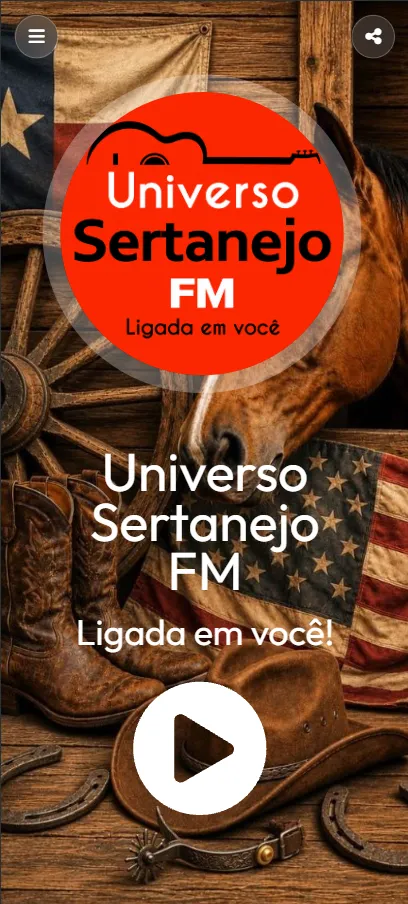
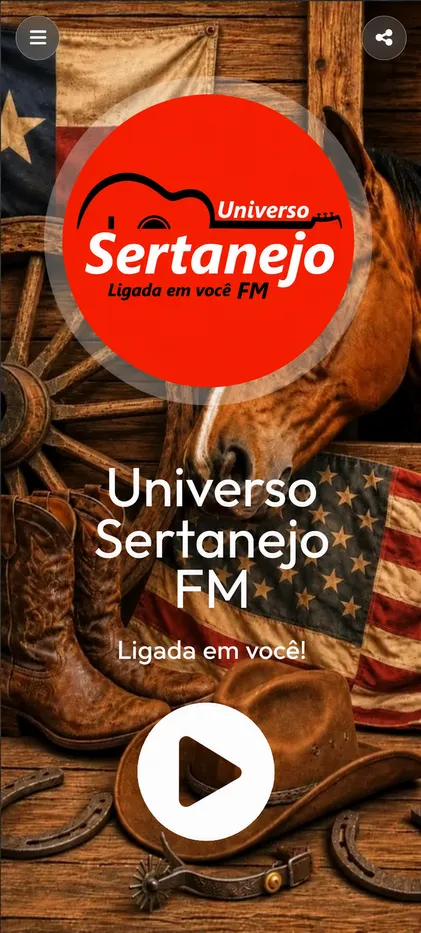
fix: ajustar identidade visual e recorte dos títulos

diff --git a/src/routes/index.tsx b/src/routes/index.tsx
@@ -14,7 +14,9 @@ import { SITE_DATA } from "@/config/siteData";
 
 const { brandName, slogan, description, url, logoPath } = SITE_DATA;
 const title = `${brandName} | ${slogan}`;
-const image = new URL(logoPath, url).href;
+const logo = new URL(logoPath, url).href;
+const socialImage = new URL("/og-image.webp", url).href;
+const socialImageAlt = `${brandName} · ${slogan}, em fundo laranja com ondas sonoras`;
 
 export const Route = createFileRoute("/")({
   component: Index,
@@ -25,12 +27,17 @@ export const Route = createFileRoute("/")({
       { property: "og:title", content: title },
       { property: "og:description", content: description },
       { property: "og:url", content: url },
-      { property: "og:image", content: image },
-      { property: "og:image:alt", content: `Logotipo ${brandName}` },
+      { property: "og:image", content: socialImage },
+      { property: "og:image:secure_url", content: socialImage },
+      { property: "og:image:type", content: "image/webp" },
+      { property: "og:image:width", content: "1733" },
+      { property: "og:image:height", content: "907" },
+      { property: "og:image:alt", content: socialImageAlt },
+      { name: "twitter:card", content: "summary_large_image" },
       { name: "twitter:title", content: title },
       { name: "twitter:description", content: description },
-      { name: "twitter:image", content: image },
-      { name: "twitter:image:alt", content: `Logotipo ${brandName}` },
+      { name: "twitter:image", content: socialImage },
+      { name: "twitter:image:alt", content: socialImageAlt },
     ],
     links: [{ rel: "canonical", href: url }],
     scripts: [
@@ -45,8 +52,8 @@ export const Route = createFileRoute("/")({
               name: brandName,
               slogan,
               url,
-              image,
-              logo: image,
+              image: logo,
+              logo,
               description,
               genre: ["Sertanejo", "Modão", "Sertanejo Universitário"],
             },

diff --git a/src/components/sections/FooterSection.tsx b/src/components/sections/FooterSection.tsx
@@ -14,7 +14,7 @@ export function FooterSection() {
               className="w-56 rounded-lg object-contain drop-shadow-[0_0_15px_rgba(254,51,0,0.3)] transition-transform duration-300 hover:scale-105"
             />
           </div>
-          <p className="mt-3 text-xs uppercase tracking-[0.3em] text-brand">{SITE_DATA.slogan}</p>
+          {/* <p className="mt-3 text-xs uppercase tracking-[0.3em] text-brand">{SITE_DATA.slogan}</p> */}
           <p className="mt-4 text-sm text-taupe max-w-sm leading-relaxed">
             A rádio sertaneja que traz a combinação perfeita entre os grandes clássicos da roça e os
             maiores lançamentos da atualidade.
@@ -22,7 +22,9 @@ export function FooterSection() {
         </div>
 
         <div className="flex flex-col items-center md:items-start text-center md:text-left">
-          <h4 className="font-display text-lg tracking-widest text-cream mb-4">NAVEGAÇÃO</h4>
+          <h4 className="font-display mb-4 text-base font-bold leading-snug tracking-[0.09em] text-cream">
+            NAVEGAÇÃO
+          </h4>
           <ul className="space-y-3 text-sm text-taupe">
             <li>
               <a href="#top" className="hover:text-brand-bright transition-colors">
@@ -49,9 +51,9 @@ export function FooterSection() {
       </div>
       <div
         className="w-full my-8 pt-6 border-t border-current/10 text-center"
-        aria-label="Diretórios de rádio"
+        aria-label="Parceiros"
       >
-        <h3 className="mb-5 text-base font-semibold">Diretórios de rádio</h3>
+        <h3 className="mb-5 text-base font-bold leading-snug tracking-[-0.01em]">Parceiros</h3>
         <div className="flex flex-wrap justify-center items-center gap-4 sm:gap-6">
           <a
             key="myTuner Radio"

diff --git a/src/components/sections/LiveRadioSection.tsx b/src/components/sections/LiveRadioSection.tsx
@@ -40,7 +40,7 @@ export function LiveRadioSection() {
           <div className="relative aspect-4/5 rounded-3xl overflow-hidden border border-[rgba(181,43,8,0.3)] shadow-[0_20px_50px_rgba(26,19,12,0.12)]">
             <img
               src={studio}
-              alt="Microfone e mesa de som em estúdio de rádio ilustrativo"
+              alt="Vista ampla de um estúdio de rádio ilustrativo, com mesa de transmissão, microfones articulados e monitores"
               loading="lazy"
               className="w-full h-full object-cover brightness-105 contrast-105"
             />
@@ -60,7 +60,7 @@ export function LiveRadioSection() {
             Rádio online
           </p>
 
-          <h2 className="mt-3 font-display text-4xl md:text-5xl lg:text-6xl leading-tight">
+          <h2 className="mt-3 font-display text-[clamp(2.125rem,4.1vw,3.5rem)] font-extrabold leading-[1.1] tracking-[-0.04em]">
             <span className="text-brand-gradient-dark">Companhia de Verdade,</span>
             <br />
             <span className="text-graphite-medium">Ao Vivo</span>
@@ -89,7 +89,7 @@ export function LiveRadioSection() {
                   <Icon size={22} />
                 </div>
                 <div className="min-w-0">
-                  <h3 className="font-semibold text-graphite-medium text-base">{title}</h3>
+                  <h3 className="text-base font-semibold leading-snug tracking-[-0.01em] text-graphite-medium">{title}</h3>
                   <p className="text-sm text-[#5c4f40] mt-1 leading-snug">{body}</p>
                 </div>
               </motion.div>

diff --git a/src/routes/__root.tsx b/src/routes/__root.tsx
@@ -18,8 +18,8 @@ function NotFoundComponent() {
   return (
     <div className="flex min-h-screen items-center justify-center bg-background px-4">
       <div className="max-w-md text-center">
-        <h1 className="text-7xl font-bold text-foreground">404</h1>
-        <h2 className="mt-4 text-xl font-semibold text-foreground">Página não encontrada</h2>
+        <h1 className="text-6xl font-extrabold leading-none tracking-tight text-foreground sm:text-7xl">404</h1>
+        <h2 className="mt-4 text-xl font-bold leading-tight tracking-tight text-foreground">Página não encontrada</h2>
         <p className="mt-2 text-sm text-muted-foreground">
           O endereço pode ter mudado ou a página pode ter sido removida.
         </p>
@@ -88,9 +88,6 @@ export const Route = createRootRouteWithContext<{ queryClient: QueryClient }>()(
       { property: "og:site_name", content: SITE_DATA.brandName },
       { property: "og:type", content: "website" },
       { property: "og:locale", content: "pt_BR" },
-
-      /* Twitter Default */
-      { name: "twitter:card", content: "summary_large_image" },
     ],
     links: [
       { rel: "stylesheet", href: appCss },
@@ -103,7 +100,7 @@ export const Route = createRootRouteWithContext<{ queryClient: QueryClient }>()(
       },
       {
         rel: "stylesheet",
-        href: "https://fonts.googleapis.com/css2?family=Cinzel:wght@600;700;800;900&family=Inter:wght@400;500;600;700&display=swap",
+        href: "https://fonts.googleapis.com/css2?family=Inter:wght@400;500;600;700&display=swap",
       },
     ],
   }),

diff --git a/src/styles.css b/src/styles.css
@@ -6,7 +6,7 @@
 
 @theme inline {
   --font-sans: "Inter", ui-sans-serif, system-ui, sans-serif;
-  --font-display: "Cinzel", serif;
+  --font-display: "Segoe UI", system-ui, sans-serif;
 
   --color-background: var(--background);
   --color-foreground: var(--foreground);
@@ -53,6 +53,15 @@
     -webkit-font-smoothing: antialiased;
     overflow-x: hidden;
   }
+  h1,
+  h2,
+  h3,
+  h4,
+  h5,
+  h6 {
+    font-family: var(--font-display);
+    font-variant-caps: normal;
+  }
   * {
     border-color: var(--border);
   }
@@ -96,6 +105,13 @@
   filter: drop-shadow(0px 2px 10px rgba(254, 51, 0, 0.3));
 }
 
+/* Extend the gradient paint area for descenders without changing layout. */
+.text-brand-gradient,
+.text-brand-gradient-dark {
+  padding-bottom: 0.12em;
+  margin-bottom: -0.12em;
+}
+
 @utility bg-brand-gradient {
   background: linear-gradient(135deg, #ff935e 0%, #ff7138 45%, #ffab83 100%);
 }
@@ -108,11 +124,6 @@
   background: rgba(41, 37, 36, 0.75);
   backdrop-filter: blur(20px) saturate(140%);
   border: 1px solid rgba(254, 51, 0, 0.25);
-}
-
-@utility font-display {
-  font-family: "Cinzel", serif;
-  letter-spacing: 0.02em;
 }
 
 @keyframes ken-burns {

diff --git a/src/components/sections/HeroSection.tsx b/src/components/sections/HeroSection.tsx
@@ -90,12 +90,12 @@ export function HeroSection() {
           initial={{ opacity: 0, y: 30 }}
           animate={{ opacity: 1, y: 0 }}
           transition={{ delay: 0.15, duration: 0.9 }}
-          className="font-display text-[clamp(2rem,9.5vw,3rem)] sm:text-6xl md:text-7xl lg:text-8xl text-balance leading-[0.95] max-w-5xl drop-shadow-[0_4px_20px_rgba(0,0,0,0.9)]"
+          className="font-display max-w-5xl text-balance text-[clamp(2.375rem,7vw,5.75rem)] font-extrabold leading-[1.06] tracking-[-0.045em] drop-shadow-[0_4px_20px_rgba(0,0,0,0.9)]"
         >
           <span className="text-brand-gradient block drop-shadow-[0_2px_10px_rgba(0,0,0,0.8)]">
             {SITE_DATA.brandName}
           </span>
-          <span className="block mt-3 text-3xl sm:text-4xl md:text-5xl text-cream drop-shadow-[0_2px_8px_rgba(0,0,0,0.9)]">
+          <span className="mt-4 block text-[clamp(1.5rem,3.4vw,2.75rem)] font-semibold leading-[1.15] tracking-[-0.025em] text-cream drop-shadow-[0_2px_8px_rgba(0,0,0,0.9)]">
             {SITE_DATA.slogan}
           </span>
         </motion.h1>

diff --git a/src/components/sections/AppEcosystemSection.tsx b/src/components/sections/AppEcosystemSection.tsx
@@ -20,8 +20,8 @@ export function AppEcosystemSection() {
           <p className="inline-flex items-center gap-2 rounded-full border border-[rgba(26,19,12,0.25)] bg-[rgba(26,19,12,0.06)] px-4 py-1.5 text-xs font-bold uppercase tracking-[0.2em] text-[#96300f] mb-4 backdrop-blur-md">
             Aplicativo Oficial
           </p>
-          <h2 className="mt-3 font-display text-4xl md:text-5xl lg:text-6xl leading-tight text-graphite-medium font-bold">
-            <span className="text-brand-gradient-dark">{SITE_DATA.brandName}</span>{" "}
+          <h2 className="mt-3 font-display text-balance text-[clamp(2rem,4vw,3.5rem)] font-extrabold leading-[1.12] tracking-[-0.04em] text-graphite-medium">
+            <span className="text-brand-gradient-dark lg:inline-block">{SITE_DATA.brandName}</span>{" "}
             <span>no Seu Dispositivo</span>
           </h2>
           <p className="mt-6 text-[#4a3e31] font-medium leading-relaxed">

diff --git a/src/components/sections/Navbar.tsx b/src/components/sections/Navbar.tsx
@@ -17,7 +17,7 @@ export function Navbar() {
 
   return (
     <header
-      className="fixed inset-x-0 top-0 z-50 bg-brand text-graphite-dark shadow-lg"
+      className="fixed inset-x-0 top-0 z-50 border-b border-[rgba(229,169,60,0.15)] bg-[#140f0a]/80 text-cream backdrop-blur-md"
       onKeyDown={(event) => {
         if (event.key === "Escape" && open) {
           setOpen(false);
@@ -30,7 +30,7 @@ export function Navbar() {
           <ul className="flex gap-5 xl:gap-7">
             {NAV_ITEMS.map(({ label, href }) => (
               <li key={href}>
-                <a className="text-sm font-bold hover:underline" href={href}>
+                <a className="text-sm font-bold hover:text-brand-bright hover:underline" href={href}>
                   {label}
                 </a>
               </li>

diff --git a/src/lib/error-page.ts b/src/lib/error-page.ts
@@ -8,7 +8,7 @@ export function renderErrorPage(): string {
     <style>
       body { font: 15px/1.5 system-ui, -apple-system, sans-serif; background: #fafafa; color: #111; display: grid; place-items: center; min-height: 100vh; margin: 0; padding: 1.5rem; }
       .card { max-width: 28rem; width: 100%; text-align: center; padding: 2rem; }
-      h1 { font-size: 1.25rem; margin: 0 0 0.5rem; }
+      h1 { font: 700 1.25rem/1.2 "Segoe UI", system-ui, sans-serif; letter-spacing: -0.02em; margin: 0 0 0.5rem; }
       p { color: #4b5563; margin: 0 0 1.5rem; }
       .actions { display: flex; gap: 0.5rem; justify-content: center; flex-wrap: wrap; }
       a, button { padding: 0.5rem 1rem; border-radius: 0.375rem; font: inherit; cursor: pointer; text-decoration: none; border: 1px solid transparent; }

diff --git a/src/components/sections/AudioExperienceSection.tsx b/src/components/sections/AudioExperienceSection.tsx
@@ -60,7 +60,7 @@ export function AudioExperienceSection() {
                 />
               </div>
               <div className="p-4 md:p-6 absolute inset-x-0 bottom-0 bg-[#171414]/95">
-                <h3 className="font-display text-lg sm:text-xl md:text-lg lg:text-xl tracking-wide text-cream group-hover:text-brand-bright transition-colors">
+                <h3 className="font-display text-lg font-bold leading-tight tracking-[-0.02em] sm:text-xl xl:text-2xl text-cream group-hover:text-brand-bright transition-colors">
                   {c.title}
                 </h3>
                 <p className="mt-3 text-sm text-taupe leading-relaxed">{c.body}</p>

diff --git a/src/components/sections/MomentsGridSection.tsx b/src/components/sections/MomentsGridSection.tsx
@@ -94,7 +94,7 @@ export function MomentsGridSection() {
               )}
 
               <div className="absolute inset-x-0 bottom-0 p-6 z-10">
-                <h3 className="font-display text-2xl md:text-3xl tracking-wide text-cream group-hover:text-brand-bright transition-colors">
+                <h3 className="font-display text-2xl font-bold leading-[1.12] tracking-[-0.025em] lg:text-[1.75rem] text-cream group-hover:text-brand-bright transition-colors">
                   {it.title}
                 </h3>
                 <p className="mt-2 text-xs md:text-sm text-[#d9d2c4] opacity-80 group-hover:opacity-100 transition-opacity duration-300 max-w-sm">

diff --git a/src/components/sections/PlayerSection.tsx b/src/components/sections/PlayerSection.tsx
@@ -47,8 +47,8 @@ export function PlayerSection() {
             Rádio ao vivo
           </span>
 
-          <h2 className="font-display text-3xl md:text-5xl lg:text-6xl font-bold tracking-wide text-graphite-medium">
-            <span className="text-brand-gradient-dark font-bold">{SITE_DATA.brandName}</span>
+          <h2 className="font-display text-balance text-[clamp(1.875rem,4.2vw,3.5rem)] font-extrabold leading-[1.12] tracking-[-0.035em] text-graphite-medium">
+            <span className="text-brand-gradient-dark">{SITE_DATA.brandName}</span>
           </h2>
 
           <p className="mt-3 text-[#4a3e31] text-sm md:text-base font-semibold">
